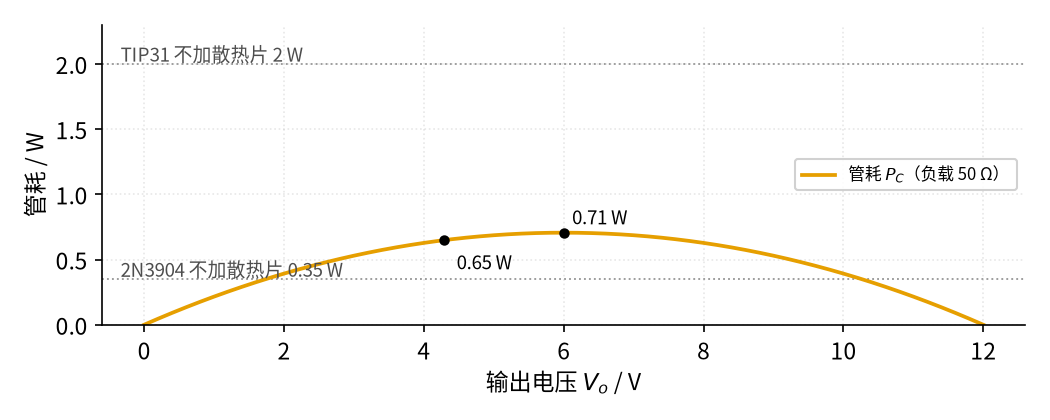
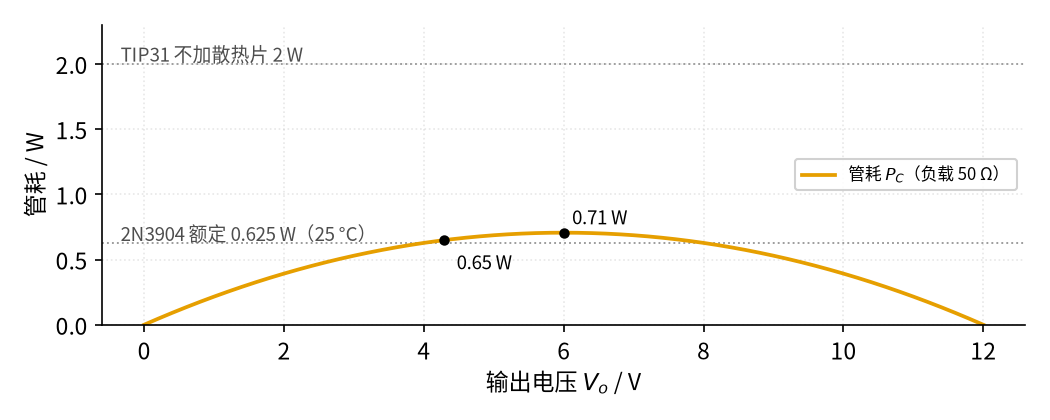
fix: 射极跟随器 复核修改

Changed region(s): [[0.0914, 0.5262, 0.3657, 0.5881], [0.1219, 0.619, 0.3352, 0.681]]

diff --git a/code/figs/07_figs.py b/code/figs/07_figs.py
@@ -139,7 +139,7 @@ def power_curve():
     p5 = (VCC - v5) * ie5 * BETA / (BETA + 1)
     fig, ax = plt.subplots(figsize=fs.SIZE["single"])
     ax.plot(vo, p, **fs.LS["vout"], label="管耗 $P_C$（负载 50 Ω）")
-    fs.ref_h(ax, 0.35, "2N3904 不加散热片 0.35 W", x=0.02, ha="left")
+    fs.ref_h(ax, 0.625, "2N3904 额定 0.625 W（25 °C）", x=0.02, ha="left")
     fs.ref_h(ax, 2.0, "TIP31 不加散热片 2 W", x=0.02, ha="left")
     fs.mark(ax, vo[k], p[k], "{:.2f}", " W", dx=4, dy=4)
     fs.mark(ax, v5, p5, "{:.2f}", " W", dx=6, dy=-14)
@@ -147,7 +147,7 @@ def power_curve():
     ax.legend(loc="center right", fontsize=8)
     print(f"[图 07-p3-1] 最大管耗在 V_o = {vo[k]:.1f} V（V_CC 的一半），{p[k]:.2f} W；V_i 5 V 时 {p5:.2f} W")
     print(f"[温升] TIP31 不加散热片 θ_JA 62.5 °C/W：{p5:.2f} W → 结温比环境高 {p5 * 62.5:.0f} °C；最坏 {p[k]:.2f} W → {p[k] * 62.5:.0f} °C")
-    assert abs(vo[k] - VCC / 2) < 0.1 and p5 > 0.35
+    assert abs(vo[k] - VCC / 2) < 0.1 and p5 > 0.625
     fs.save(fig, P, "07_p3_1_power.png")
 
 

diff --git a/07-emitter-follower/page3.md b/07-emitter-follower/page3.md
@@ -9,10 +9,10 @@
 | 参数 | 典型取值 | 影响什么 | 选择要点 |
 |---|---|---|---|
 | $V_{BE}$ | 0.6 V 到 0.8 V（小电流）；TIP31 在 3 A 时最大 1.8 V | 输出比输入低多少 | 要精确就把跟随器放进运放反馈环 |
-| β（ $h_{FE}$ ） | 2N3904 为 100 到 300（10 mA）；TIP31 在 1 A 时至少 25 | 运放要给多少基极电流 | 按手册**最小值**算基极电流 |
+| β（ $h_{FE}$ ） | 2N3904 为 100 到 300（10 mA），电流大了会下降：50 mA 时最小 60、100 mA 时最小 30（onsemi 手册）；TIP31 在 1 A 时至少 25 | 运放要给多少基极电流 | 按手册**最小值**算基极电流 |
 | $V_{CC}$ | 比最高输出高 2 V 到 3 V 即可 | 管耗 | 留够余量就行，越高越热 |
-| $P_C$ 上限 | 2N3904 为 350 mW（Semelab）；TIP31 不加散热片 2 W、加散热片可到 40 W（管壳 25 °C） | 管子会不会烧 | 按最坏情况 $V_o = V_{CC}/2$ 估 |
-| $\theta_{JA}$ | TIP31 为 62.5 °C/W | 不加散热片时的温升 | 温升 = 功耗 × $\theta_{JA}$ |
+| $P_C$ 上限 | 2N3904（onsemi，TO-92）环境 25 °C 时 625 mW，环境每升高 1 °C 减 5 mW；TIP31 不加散热片 2 W、加散热片可到 40 W（管壳 25 °C） | 管子会不会烧 | 按最坏情况 $V_o = V_{CC}/2$ 估 |
+| $\theta_{JA}$ （结到环境热阻：每发 1 W 热，管芯比周围空气热多少度） | 2N3904 为 200 °C/W；TIP31 为 62.5 °C/W | 不加散热片时的温升 | 温升 = 功耗 × $\theta_{JA}$ |
 | 运放拉电流 | LM358 典型 30 mA、最小 20 mA | 能推动多大的基极电流 | 基极电流留几倍余量 |
 
 β 变化的影响由程序扫描给出（ $V_i = 5\ \text{V}$ 、 $R_L = 50\ \Omega$ ）：
@@ -26,11 +26,11 @@
 
 真正要算的是功耗，见图 07-p3-1：
 
-![管耗随输出电压先升后降，6 V 处最大 0.71 W，4.29 V 处 0.65 W；灰色点线标出 0.35 W 和 2 W](img/07_p3_1_power.png)
+![管耗随输出电压先升后降，6 V 处最大 0.71 W，4.29 V 处 0.65 W；灰色点线标出 0.625 W 和 2 W](img/07_p3_1_power.png)
 
 *图 07-p3-1　负载 50 Ω、电源 12 V 时三极管管耗随输出电压的变化*
 
-图 07-p3-1 的曲线是一条倒扣的抛物线：输出为 0 时没有电流，输出接近 12 V 时三极管上没有压降，两头都不发热；最热的是输出等于电源一半（6.0 V）的时候，0.71 W。原理篇的工作点（4.29 V）是 0.65 W。两条灰色点线中，2N3904 的 0.35 W 被曲线大段超过，TIP31 不加散热片的 2 W 则绰绰有余。按 $\theta_{JA}$ 估，0.65 W 让 TIP31 的结温比环境高约 41 °C，最坏的 0.71 W 高约 44 °C——摸上去烫手，但在 150 °C 的结温上限以内。
+图 07-p3-1 的橙色曲线是一条倒扣的抛物线：输出为 0 时没有电流，输出接近 12 V 时三极管上没有压降，两头都不发热；最热的是输出等于电源一半（6.0 V）的时候，0.71 W。原理篇的工作点（4.29 V）是 0.65 W。两条灰色点线中，2N3904 的 0.625 W（环境 25 °C）被曲线中间一段超过（令 $(12 - V_o) V_o / 51 = 0.625$ 解得约 4.0 V 到 8.0 V），原理篇的工作点正好落在这段里，TIP31 不加散热片的 2 W 则绰绰有余。按 $\theta_{JA}$ 估，0.65 W 让 TIP31 的结温比环境高约 41 °C，最坏的 0.71 W 高约 44 °C——摸上去烫手，但在 150 °C 的结温上限以内。同样的 0.65 W 放在 2N3904 上，温升是 $0.65 \times 200 = 130$ °C，结温超过上限，这就是一定要换功率管的原因。
 
 ## 二、故障排查
 
@@ -39,12 +39,12 @@
 | 输出总比想要的低 0.6 V 到 0.7 V | 忘了 $V_{BE}$ | 万用表测基极和发射极，差值就是 $V_{BE}$ | 输入提高一个 $V_{BE}$ ，或把反馈取自发射极（原理篇第五节） |
 | 输入很小时输出为 0 | 输入低于约 0.6 V，三极管截止 | 测基极电压是否低于 0.6 V | 单电源时让输入保持在 0.7 V 以上，或改用推挽加双电源 |
 | 三极管烫手、冒烟 | 管耗超过额定值 | 算 $(V_{CC} - V_o) I_C$ ，与手册 $P_D$ 比较 | 换功率管、加散热片、降低 $V_{CC}$ |
-| 输出上不去，到某个电压就平了 | 运放输出摆不到电源轨，或 $V_{CC}$ 余量不够 | 测运放输出最高能到多少 | 运放电源比 $V_{CC}$ 高一点，或换轨到轨运放 |
-| 接了长电缆或大电容后输出有高频振荡 | 射极跟随器与容性负载形成振荡（TI AN-4） | 示波器看输出，有几十 kHz 以上的毛刺 | 在跟随器与电缆之间串磁珠（TI AN-4）；基极串一只电阻，TI AN-4 图 8 的输出缓冲用 470 Ω 消除输出管的寄生振荡 |
+| 输出上不去，到某个电压就平了 | 运放输出摆不到电源轨，或 $V_{CC}$ 余量不够 | 测运放输出最高能到多少 | 运放电源比 $V_{CC}$ 高一点，或换轨到轨运放（输出能摆到几乎贴着电源和地的运放） |
+| 接了长电缆或大电容后输出有高频振荡 | 射极跟随器与容性负载形成振荡（TI AN-4） | 示波器看输出，有几十 kHz 以上的毛刺 | 在跟随器与电缆之间串磁珠（套在导线上的小铁氧体环，对高频呈现电阻、对直流几乎没影响；TI AN-4）；基极串一只电阻，TI AN-4 图 8 的输出缓冲用 470 Ω 消除输出管的寄生振荡（电路没打算振、却被导线和管子里的小电容电感凑成的高频振荡） |
 | 加了基极电阻后输出整体又低了零点几伏 | 基极电流流过基极电阻也有压降，而电阻在反馈环外 | 测基极电阻两端电压，约等于 $I_B$ × 阻值 | 把反馈取自发射极，让运放自动补上；或在不振荡的前提下减小阻值 |
-| 负载重时输出掉得比预期多 | β 太小，运放基极电流不够，进入限流 | 测运放输出电流或输出是否被压低 | 按 β 最小值重算；换 β 更大的管子或达林顿 |
+| 负载重时输出掉得比预期多 | β 太小，运放基极电流不够，进入限流 | 测运放输出电流或输出是否被压低 | 按 β 最小值重算；换 β 更大的管子或达林顿管（两只三极管叠成一只，β 约为两者相乘） |
 
-**基极电阻怎么选**。振荡那一行的改法里，基极电阻的作用是给"三极管 + 电缆电容"组成的高频谐振回路加一点损耗，让它起不了振。TI 的 AN-4 给了一个实例：LM101 后面接一对互补三极管做大电流缓冲，运放输出和两管基极之间串了 470 Ω，文中明说这只电阻是为了消除输出管的寄生振荡；同一份资料还建议在集电极各串 50 Ω 来限流。
+**基极电阻怎么选**。振荡那一行的改法里，基极电阻的作用是给"三极管 + 电缆电容"组成的高频谐振回路（电感和电容来回交换能量、会自己"晃"起来的电路，像荡秋千）加一点损耗，让它起不了振。TI 的 AN-4 给了一个实例：LM101 后面接一对互补三极管做大电流缓冲，运放输出和两管基极之间串了 470 Ω，文中明说这只电阻是为了消除输出管的寄生振荡；同一份资料还建议在集电极各串 50 Ω 来限流。
 
 这只电阻不是白来的。基极电流流过它会产生压降：按原理篇的 50 Ω 负载、β = 50 算，基极电流 1.68 mA，470 Ω 上就要降掉
 
@@ -56,7 +56,7 @@ $$1.68\ \text{mA} \times 470\ \Omega \approx 0.79\ \text{V}$$
 
 ## 三、练习
 
-**练习 1**： $V_i = 9\ \text{V}$ ， $R_L = 20\ \Omega$ ，β = 50， $V_{CC} = 15\ \text{V}$ ，用 TIP31 不加散热片。求 $V_o$ 、 $I_B$ 和 $P_C$ ，判断是否安全。
+**练习 1（易）**： $V_i = 9\ \text{V}$ ， $R_L = 20\ \Omega$ ，β = 50， $V_{CC} = 15\ \text{V}$ ，用 TIP31 不加散热片。求 $V_o$ 、 $I_B$ 和 $P_C$ ，判断是否安全。
 
 <details><summary>答案</summary>
 
@@ -64,7 +64,7 @@ $V_o = 9 - 0.7 = 8.3\ \text{V}$ ，负载电流 415 mA，基极电流 8.14 mA（
 
 </details>
 
-**练习 2**：全部用 5 V 单电源：LM358 和三极管集电极都接 5 V，β = 100， $R_L = 100\ \Omega$ 。输入 2.7 V 时输出多少？想让输出到 4 V 行不行？
+**练习 2（中）**：全部用 5 V 单电源：LM358 和三极管集电极都接 5 V，β = 100， $R_L = 100\ \Omega$ 。输入 2.7 V 时输出多少？想让输出到 4 V 行不行？
 
 <details><summary>答案</summary>
 
@@ -72,7 +72,7 @@ $V_o = 9 - 0.7 = 8.3\ \text{V}$ ，负载电流 415 mA，基极电流 8.14 mA（
 
 </details>
 
-**练习 3**：某同学测得 $V_B = 5.0\ \text{V}$ 、 $V_E = 0\ \text{V}$ ，负载不工作；另一块板子测得 $V_B = V_E = 5.0\ \text{V}$ 、负载电流远超预期。各是什么故障？
+**练习 3（中）**：某同学测得 $V_B = 5.0\ \text{V}$ 、 $V_E = 0\ \text{V}$ ，负载不工作；另一块板子测得 $V_B = V_E = 5.0\ \text{V}$ 、负载电流远超预期。各是什么故障？
 
 <details><summary>答案</summary>
 
@@ -80,7 +80,7 @@ $V_o = 9 - 0.7 = 8.3\ \text{V}$ ，负载电流 415 mA，基极电流 8.14 mA（
 
 </details>
 
-**练习 4（变体迁移）**：推挽跟随器。把一只 NPN 和一只 PNP 的基极接在一起、发射极接在一起，NPN 集电极接正电源、PNP 集电极接负电源，就能让输出既能"推"正电流又能"拉"负电流。可是输入一个 ±3 V 正弦，输出会变成下图的样子，见图 07-p3-2：
+**练习 4（较难 · 变体迁移）**：推挽跟随器。PNP 管是 NPN 的"镜像"：电压、电流方向全反过来，基极要比发射极**低**约 0.7 V 才导通（见 [P2 半导体入门 · 直觉篇](../P2-semiconductor-basics/page1.md) 的"镜像版本"一节）。把一只 NPN 和一只 PNP 的基极接在一起、发射极接在一起，NPN 集电极接正电源、PNP 集电极接负电源，就能让输出既能"推"正电流又能"拉"负电流。可是输入一个 ±3 V 正弦，输出会变成下图的样子，见图 07-p3-2：
 
 ![输入 ±3 V 正弦，输出峰值 2.3 V，过零附近 ±0.7 V 内输出为零形成平台](img/07_p3_2_pushpull.png)
 
@@ -90,14 +90,14 @@ $V_o = 9 - 0.7 = 8.3\ \text{V}$ ，负载电流 415 mA，基极电流 8.14 mA（
 
 <details><summary>答案</summary>
 
-输入在 +0.7 V 以上时只有 NPN 导通，输出 = 输入 − 0.7 V；在 −0.7 V 以下时只有 PNP 导通，输出 = 输入 + 0.7 V；夹在中间的 ±0.7 V 里两只管子都不导通，输出为 0，于是图 07-p3-2 里过零处出现平台，峰值也只剩 2.3 V。这叫交越失真。改进：用两只二极管给两管基极各预加约 0.7 V 偏置（AB 类），或者像原理篇那样把推挽级放进运放反馈环，让运放自动补上死区（TI AN-272 的做法）。
+输入在 +0.7 V 以上时只有 NPN 导通，输出 = 输入 − 0.7 V；在 −0.7 V 以下时只有 PNP 导通，输出 = 输入 + 0.7 V；夹在中间的 ±0.7 V 里两只管子都不导通，输出为 0，于是图 07-p3-2 里过零处出现平台，峰值也只剩 2.3 V。这叫交越失真。改进：用两只二极管给两管基极各预加约 0.7 V 偏置，让两只管子在过零附近都微微导通（这种接法叫 AB 类），或者像原理篇那样把推挽级放进运放反馈环，让运放自动补上死区（TI AN-272 的做法）。
 
 </details>
 
 ## 参考资料
 
 - Central Semiconductor，TIP31 数据手册（2 W / 40 W、62.5 °C/W、 $h_{FE}$ 、 $V_{BE(on)}$ ）：https://www.mouser.com/datasheet/2/68/tip31-845511.pdf
-- Semelab，2N3904 数据手册（350 mW、 $h_{FE}$ 100 到 300）：https://www.farnell.com/datasheets/1686115.pdf
+- onsemi，2N3903/2N3904 数据手册（TO-92 环境 25 °C 时 625 mW、每升高 1 °C 减 5 mW、 $\theta_{JA}$ 200 °C/W、10 mA 时 $h_{FE}$ 100 到 300）：https://www.onsemi.com/download/data-sheet/pdf/2n3903-d.pdf
 - TI，LM358 数据手册（拉电流、LM358B 输出摆幅）：https://www.ti.com/lit/ds/symlink/lm358.pdf
 - TI AN-4（射极跟随器接长电缆振荡、磁珠；图 8 大电流输出缓冲中基极串 470 Ω 消除寄生振荡、集电极串 50 Ω 限流）：https://www.ti.com/lit/an/snoa650b/snoa650b.pdf
 - TI AN-272（推挽助推级、二极管补偿 $V_{BE}$ ）：https://www.ti.com/lit/an/snoa600b/snoa600b.pdf

diff --git a/07-emitter-follower/page1.md b/07-emitter-follower/page1.md
@@ -24,7 +24,7 @@
 
 *图 07-p1-2　负载要的电流、运放能给的电流、加跟随器后运放要给的电流*
 
-图 07-p1-2 里，橙色柱子（100 mA）远远高过运放能给的蓝色（30 mA）和朱红色（20 mA）。加了跟随器以后，运放只要出最右边那根很矮的柱子——约 1.7 mA，大约是负载电流的 1/β（这里按 β = 50 估）。三极管把电流放大了几十倍，这正是 [P2 半导体入门 · 直觉篇](../P2-semiconductor-basics/page1.md) 里说的"小电流控制大电流"。
+图 07-p1-2 里，橙色柱子（100 mA）远远高过运放能给的蓝色（30 mA）和朱红色（20 mA）。加了跟随器以后，运放只要出最右边那根很矮的蓝绿色柱子——约 1.7 mA。这个数是这样来的：三极管的电流放大倍数 β 这里按 50 估；发射极比基极低约 0.7 V（本页第二节会讲为什么），负载实际拿到 4.3 V，电流是 4.3 ÷ 50 = 86 mA；基极电流是发射极电流的 1/(β + 1)，即 86 ÷ 51 ≈ 1.7 mA。粗算时直接用 100 mA ÷ 50 = 2 mA 也可以，量级一样。三极管把电流放大了几十倍，这正是 [P2 半导体入门 · 直觉篇](../P2-semiconductor-basics/page1.md) 里说的"小电流控制大电流"。
 
 ## 二、类比：小手拧大阀门，水位总低一个台阶
 
@@ -51,16 +51,16 @@ P2 里把三极管比作"用小水流推开大阀门的水龙头"。射极跟随
 |---|---|---|
 | 输出电压 | 等于输入 | 比输入低约 0.7 V |
 | 能带的电流 | 受运放限制（几十 mA） | 受三极管和电源限制（可到安培级） |
-| 输入要的电流 | 几乎为零 | 约为负载电流的 1/β |
+| 输入要的电流 | 几乎为零 | 负载电流的 1/(β + 1)，粗算约 1/β |
 | 谁发热 | 运放 | 三极管（要算功耗） |
 
-两者经常**串起来用**：运放负责"电压准"，三极管负责"电流大"。如果把运放的反馈从三极管发射极取回来，连那 0.7 V 的台阶也能被运放自动补上——这一招在原理篇会讲，到了下一节的线性稳压里还会再见到。
+两者经常**串起来用**：运放负责"电压准"，三极管负责"电流大"。如果把运放的反馈从三极管发射极取回来，连那 0.7 V 的台阶也能被运放自动补上——这一招在原理篇会讲，到了后面的 [08 线性稳压 · 直觉篇](../08-linear-regulator/page1.md) 里还会再见到。
 
 ## 四、用万用表和示波器看一遍
 
-搭好电路以后，先用万用表量直流。按原理篇的低压实验：9 V 电源，电位器把基极调到 5 V，发射极接 1 kΩ，发射极电压按模型约 4.36 V；把负载换成 220 Ω，电流变成约 4.5 倍，发射极只降到约 4.28 V。再做个对比，拿掉三极管、把 220 Ω 直接挂在电位器滑片上，滑片电压会一下掉到约 2.36 V。同一个"软"电源，加不加三极管，差别一目了然。
+搭好电路以后，先用万用表量直流。按原理篇的低压实验：9 V 电源，电位器把基极调到 5 V，发射极接 1 kΩ，发射极电压按模型约 4.36 V（这组估算按 2N3904 常见的 β = 100、电位器内阻约 247 Ω 算，原理篇有说明）；把负载换成 220 Ω，电流变成约 4.5 倍，发射极只降到约 4.28 V。再做个对比，拿掉三极管、把 220 Ω 直接挂在电位器滑片上，滑片电压会一下掉到约 2.36 V。同一个"软"电源，加不加三极管，差别一目了然。
 
-再用示波器看交流。通道 1 接基极，通道 2 接发射极，输入一个 3 V 到 7 V 的正弦。你会看到两条波形形状一模一样，通道 2 只是整体往下平移了一截：输入峰值 7.00 V 时，输出约 6.28 V，差 0.72 V。把两个通道调成同一挡位、叠在一起看，最容易看出"平移而不缩小"。如果把三极管拿掉、让运放直接推 50 Ω，通道 2 会变成一条贴在 1.5 V 附近的直线，波形完全没了。最后用手指轻碰一下三极管：在 12 V 电源下带 50 Ω 负载时，它要发约 0.65 W 的热，2N3904 这种小管子很快就会烫手甚至过热，这就是参数与调试篇要专门算功耗的原因。
+再用示波器看交流。下面这一段是**仿真**里的场景（12 V 电源、50 Ω 负载），只在电脑上看，不要照着去搭：通道 1 接基极，通道 2 接发射极，输入一个 3 V 到 7 V 的正弦。你会看到两条波形形状一模一样，通道 2 只是整体往下平移了一截：输入峰值 7.00 V 时，输出约 6.28 V，差 0.72 V。把两个通道调成同一挡位、叠在一起看，最容易看出"平移而不缩小"。如果把三极管拿掉、让运放直接推 50 Ω，通道 2 会变成一条贴在 1.5 V 附近的直线，波形完全没了。这个场景里三极管要发约 0.65 W 的热，已经超过 2N3904 的额定功耗（环境 25 °C 时 625 mW），按手册估算管子内部会升到 150 °C 以上，**几秒内就能把手指烫伤，千万不要用手去摸**。真动手时按原理篇第七节，负载用 220 Ω。这也是参数与调试篇要专门算功耗的原因。
 
 ## 五、一句话总结
 
